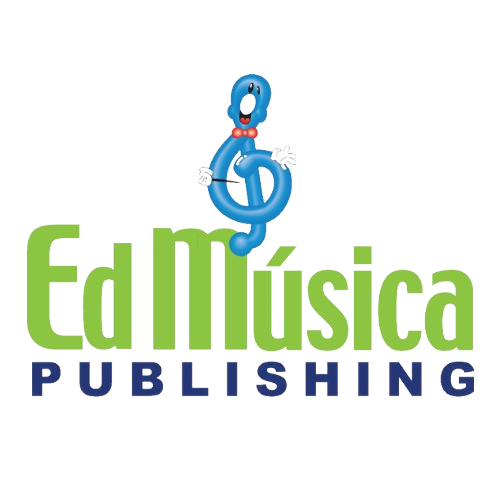
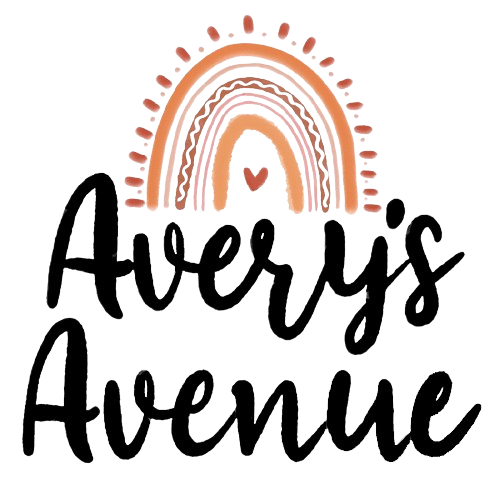
new commit

diff --git a/MAIN/BrowseItem.js b/MAIN/BrowseItem.js
@@ -24,6 +24,7 @@ import {
 } from "../EVERYTHING/BAGEL/Things";
 import {
   Alert,
+  Image,
   KeyboardAvoidingView,
   Platform,
   ScrollView,
@@ -79,7 +80,7 @@ export function BrowseItem({ navigation, route }) {
               style={[
                 {
                   width: "100%",
-                  height: height * 0.4,
+                  height: height * 0.45,
                   backgroundColor: secondaryThemedBackgroundColor(theme),
                 },
               ]}
@@ -96,7 +97,7 @@ export function BrowseItem({ navigation, route }) {
               {product.images.length === 0 && (
                 <Image
                   source={require("../assets/shophq.png")}
-                  style={[{ width: "100%", height: height * 0.4 }]}
+                  style={[{ width: "100%", height: height * 0.45 }]}
                 />
               )}
             </View>
@@ -209,7 +210,7 @@ export function BrowseItem({ navigation, route }) {
                                 theme={theme}
                                 bold={true}
                               >
-                                ${parseFloat(opt.price).toFixed(2)}
+                                ${parseFloat(opt.price.amount).toFixed(2)}
                               </TextView>
                               </SideBySide>
                             </SeparatedView>

diff --git a/MAIN/Start.js b/MAIN/Start.js
@@ -60,18 +60,26 @@ export function Start({ navigation, route }) {
     <SafeArea loading={loading} theme={theme}>
       <View style={[layout.separate_vertical]}>
         <View style={[layout.padding_horizontal]}>
-        <Image
-          source={require("../assets/loading.png")}
-          style={[
-            { width: "100%", height: height * 0.4, objectFit: "cover" },
-            // format.radius,
-          ]}
-        />
+          <Spacer height={20} />
+          <Image
+            source={require("../assets/loading.png")}
+            style={[
+              { width: "100%", height: height * 0.3, objectFit: "contain" },
+              // format.radius,
+            ]}
+          />
         </View>
 
         <View>
           <View style={[]}>
-            <View style={[layout.padding, layout.margin, format.radius, {backgroundColor: secondaryThemedBackgroundColor(theme)}]}>
+            <View
+              style={[
+                layout.padding,
+                layout.margin,
+                format.radius,
+                { backgroundColor: secondaryThemedBackgroundColor(theme) },
+              ]}
+            >
               <TextView
                 color={themedTextColor(theme)}
                 size={20}

diff --git a/EVERYTHING/BAGEL/Things.js b/EVERYTHING/BAGEL/Things.js
@@ -101,7 +101,7 @@ export var myID = "test";
 export var myToken = "";
 export var stripePublishableKey =
   "pk_test_51NuJfZIDyFPNiK5CPKgovhg5fen3VM4SzxvBqdYAfwriYKzoqacsfIOiNAt5ErXss3eHYF45ak5PPFHeAD0AXit900imYxFTry";
-export const shopifyURL = `edmusica.com`;
+export const shopifyURL = `averys-avenue.com`;
 export const vendorID = "7cc83b-57";
 //
 export var serverURL = "https://garnet-private-hisser.glitch.me";
@@ -121,7 +121,7 @@ const firebaseConfig = {
 };
 
 // APP INFO
-export var appName = "Shop HQ";
+export var appName = "Averys Avenue";
 
 // EXTRAS
 export const themedTextColor = (theme) => {

diff --git a/SCREENS/GetStarted.js b/SCREENS/GetStarted.js
@@ -17,7 +17,9 @@ export function GetStarted({ title, caption, details, onPress, theme }) {
   return (
     <View style={[{ flex: 1 }, layout.padding, layout.separate_vertical]}>
       {/* TOP */}
+      <Spacer height={30} />
       <View style={[layout.relative]}>
+        
         <Image
           source={require("../assets/IMAGES/stock1.jpg")}
           style={[{ width: "100%", height: width * 1.2, objectFit: "cover", borderRadius: 12 }]}
